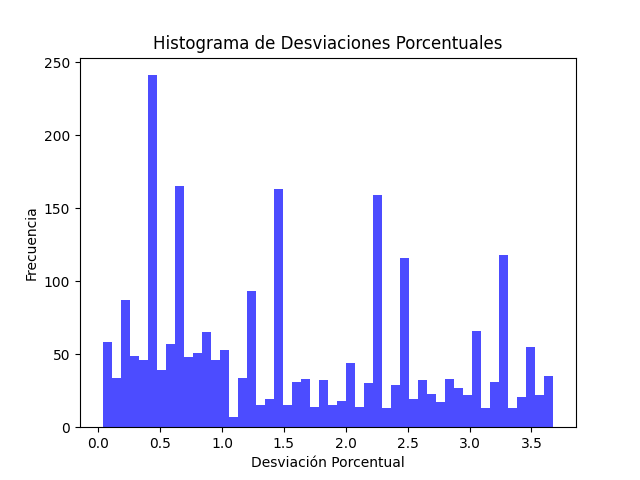
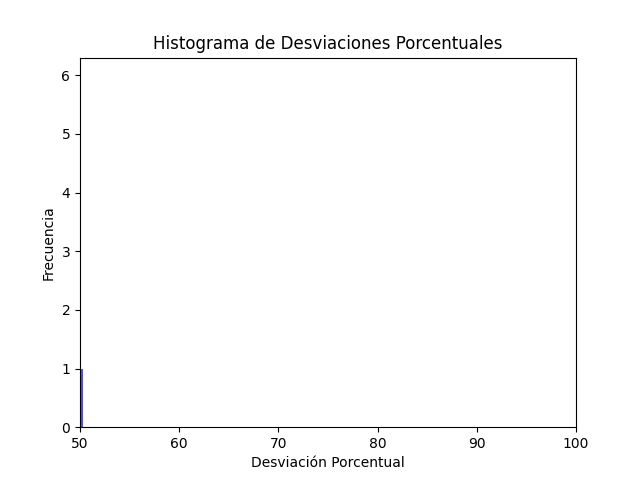
feat: original data set for second practice working

diff --git a/third_practice/main.py b/third_practice/main.py
@@ -18,7 +18,6 @@ def save_channel_to_csv(channel, filename, fmt='%.8f'):
     filepath = os.path.join(csv_output_folder, filename)
     np.savetxt(filepath, channel, delimiter=',', fmt=fmt)
 
-
 image = cv2.imread(f'{base_practice_folder}/image.png')
 segment_height = 40
 segment_width = 62
@@ -28,64 +27,81 @@ start_row, start_col = 100, 150
 end_row = start_row + segment_height
 end_col = start_col + segment_width
 
-image_segment = cv2.cvtColor(image[start_row:end_row, start_col:end_col], cv2.COLOR_BGR2GRAY)
-cv2.imshow('Original Segment', cv2.resize(image_segment, (segment_width * 10, segment_height * 10), interpolation=cv2.INTER_NEAREST))
+# image_segment = cv2.cvtColor(image[start_row:end_row, start_col:end_col], cv2.COLOR_BGR2GRAY)
+
+image_segment = np.array([
+    [232, 224, 131, 232, 233],
+    [215, 231, 234, 230, 118],
+    [230, 218, 226, 219, 226],
+    [215, 106, 228, 230, 232],
+    [224, 221, 234, 226, 217],
+])
+
 save_channel_to_csv(image_segment, 'segmento_original.csv', fmt='%d')
 
-print(np.array(image_segment))
+# print(np.array(image_segment))
 
 median = np.median(image_segment)
-print(f'Median: {median} \n')
-mean, std_dev = cv2.meanStdDev(image_segment)
-mean = mean[0][0]
-threshold = 1.5
-print(f'Mean: {mean} \n')
+regional_intensity_mean = np.mean(image_segment)
+mode = stats.mode(image_segment, axis=None).mode
 
-mode_value = stats.mode(image_segment, axis=None).mode
-print(f'Mode: {mode_value} \n')
+print(f'Median: {median}')
+print(f'Mean: {regional_intensity_mean}')
+print(f'Mode: {mode}')
 
-deviations_percent = np.abs((mean - image_segment * 100) / mean)
+threshold = 10
+# threshold = 75
 
-percentile_threshold = np.percentile(deviations_percent, 95)
-print(f'Percentil 95: {percentile_threshold}')
-
-print("Matriz de desviaciones:")
-print(deviations_percent)
-save_channel_to_csv(deviations_percent, 'desviaciones.csv')
-
-anomalies = deviations_percent > threshold
-print("Matriz de anomalias:")
-print(anomalies)
-save_channel_to_csv(anomalies, 'anomalias.csv', fmt='%d')
-
-# use_mean_filter = 1
-filtered_segment = np.copy(image_segment)
-for i in range(image_segment.shape[0]):
-    for j in range(image_segment.shape[1]):
-        if filtered_segment[i, j] > percentile_threshold:
-            # if use_mean_filter == 1:
-            filtered_segment[i, j] = median
-            # else:
-            #     filtered_segment[i, j] = mode_value
+percentual_deviations = np.abs((image_segment - regional_intensity_mean) * 100 / regional_intensity_mean)
+sum_percentual_deviations = np.sum(percentual_deviations)
 
 
-# filtered_segment[anomalies] = median
 
-print(filtered_segment)
-cv2.imshow('Image with filtered segment', cv2.resize(filtered_segment, (segment_width * 10, segment_height * 10), interpolation=cv2.INTER_NEAREST))
+# min_intensity = np.min(percentual_deviations)
+# max_intensity = np.max(percentual_deviations)
 
-counts, bins, patches = plt.hist(deviations_percent.ravel(), bins=50, color='blue', alpha=0.7)
-# plt.xticks(bins, rotation=90)
+# bins = np.arange(min_intensity, max_intensity + 2) - 0.5
+counts, bins, patches = plt.hist(percentual_deviations.ravel(), bins=50, color='blue', alpha=0.7)
+plt.xlim([50, 100])
+
+# plt.xticks(np.arange(min_intensity, max_intensity + 1), rotation=0)
 plt.title('Histograma de Desviaciones Porcentuales')
 plt.xlabel('Desviación Porcentual')
 plt.ylabel('Frecuencia')
 plt.savefig(f'{histogram_output_folder}/segment_deviations.png')
 
-# plt.hist(image_segment.ravel(), bins=256, range=[0, 256], color='gray', alpha=0.7)
-# plt.title('Histograma de intensidades de píxeles')
-# plt.xlabel('Intensidad de píxeles')
+# counts, bins, patches = plt.hist(percentual_deviations.ravel(), bins=percentual_deviations.size, color='blue', alpha=0.7)
+# plt.xticks(bins, rotation=90)
+# plt.title('Histograma de Desviaciones Porcentuales')
+# plt.xlabel('Desviación Porcentual')
 # plt.ylabel('Frecuencia')
-# plt.savefig(f'{histogram_output_folder}/segment_intentisies.png')
+# plt.savefig(f'{histogram_output_folder}/segment_deviations.png')
+
+anomalies = percentual_deviations > threshold
+# save_channel_to_csv(anomalies, 'anomalias.csv', fmt='%d')
+
+
+anomalies_rgb = np.zeros((*anomalies.shape, 3), dtype=np.uint8)
+anomalies_rgb[anomalies] = [0, 0, 255]  # Rojo
+anomalies_rgb[~anomalies] = [0, 0, 0]   # Negro
+
+cv2.imshow('Anomalies', anomalies_rgb)
+
+median_filtered_segment = np.copy(image_segment)
+median_filtered_segment[anomalies] = median
+median_filtered_regional_intensity_mean = np.mean(median_filtered_segment)
+median_filtered_percentual_deviations = np.abs((median_filtered_segment - median_filtered_regional_intensity_mean) * 100 / median_filtered_regional_intensity_mean)
+
+mode_filtered_segment = np.copy(image_segment)
+mode_filtered_segment[anomalies] = mode
+mode_filtered_regional_intensity_mean = np.mean(mode_filtered_segment)
+mode_filtered_percentual_deviations = np.abs((mode_filtered_segment - mode_filtered_regional_intensity_mean) * 100 / mode_filtered_regional_intensity_mean)
+
+
+cv2.imshow('Original segment', image_segment.astype(np.uint8))
+cv2.imshow('Median filtered segment', median_filtered_segment.astype(np.uint8))
+cv2.imshow('Mode filtered segment', mode_filtered_segment.astype(np.uint8))
+
 
 cv2.waitKey(0)
 cv2.destroyAllWindows()
